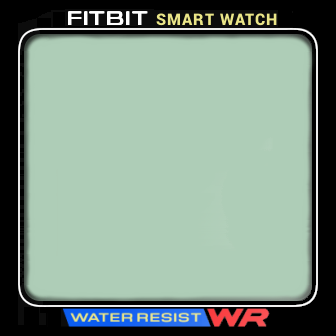
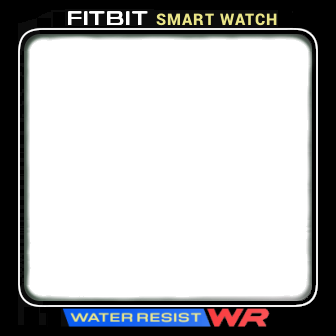
feat(GUI): trasparent watchface

diff --git a/app/activities.js b/app/activities.js
@@ -76,7 +76,7 @@ function draw(el) {
             el.goal.style.fill = 'fb-white';
             break;
         default:
-            el.background.style.fill = 'darkseagreen';
+            el.background.style.fill = '#F0F0F0';
             el.bar.style.fill = 'fb-black';
             el.goal.style.fill = 'fb-extra-dark-gray';
     }

diff --git a/resources/styles.css b/resources/styles.css
@@ -3,6 +3,14 @@
   fill: "fb-green-press";
 }
 
+#background {
+  x: 0;
+  y: 0;
+  width: 100%;
+  height: 100%;
+  fill: "white";
+}
+
 #torch {
   x: 0;
   y: 0;
